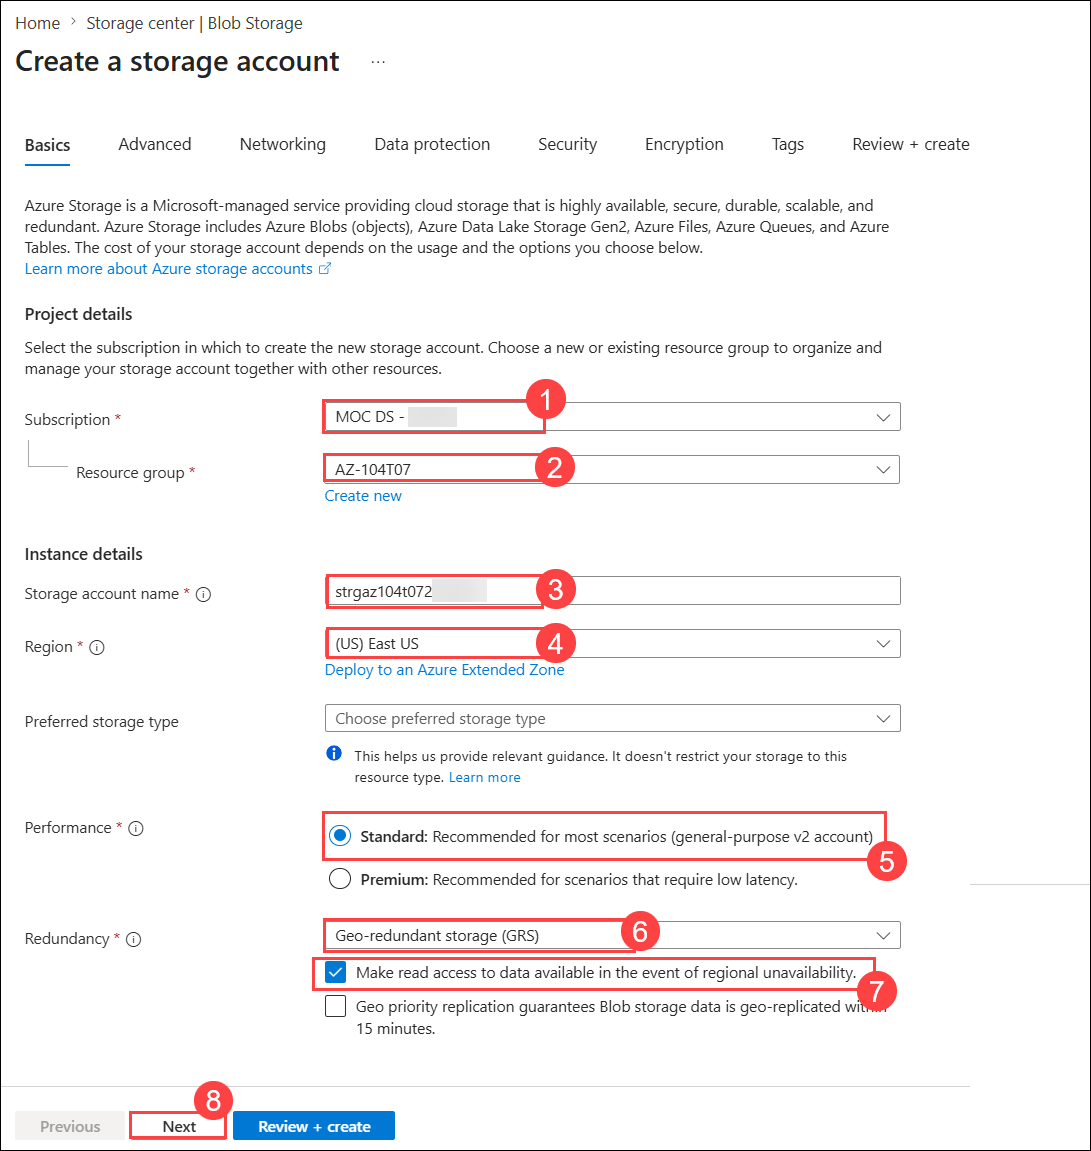
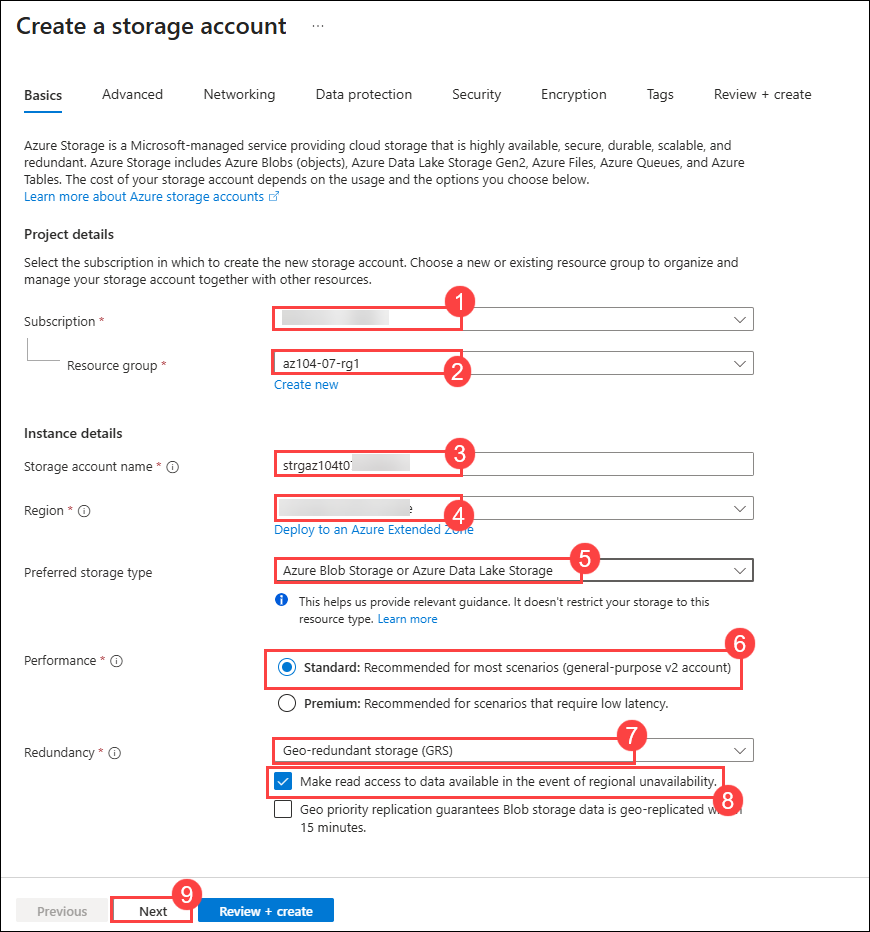
updated 07

diff --git a/Instructions/Labs/LAB_07-Manage_Azure_Storage.md b/Instructions/Labs/LAB_07-Manage_Azure_Storage.md
@@ -22,7 +22,7 @@ In this task, you will create and configure an Azure Storage account.
    
      ![image](./media/10-10-lab7-3.png)
 
-1. On the **Basics** tab of the **Create storage account** blade, specify the following settings (leave others with their default values) then click on **Next (8)**:
+1. On the **Basics** tab of the **Create storage account** blade, specify the following settings (leave others with their default values) then click on **Next (9)**:
 
     | Setting | Value |
     | --- | --- |
@@ -30,9 +30,10 @@ In this task, you will create and configure an Azure Storage account.
     | Resource group | Select **existing** resource group **az104-07-rg1 (2)** |
     | Storage account name | **strgaz104t07<inject key="DeploymentID" enableCopy="false" /> (3)** |
     | Region | **<inject key="Region" enableCopy="false"/> (4)**  |
-    | Performance | **Standard (5)** |
-    | Redundancy | **Geo-redundant storage (GRS) (6)** |
-    | Make read access to data available in the event of regional unavailability. | **Check the box (7)**|
+    | Preferred storage type | **Azure Blob Storage or Azure Data Lake Storage (5)** |
+    | Performance | **Standard (6)** |
+    | Redundancy | **Geo-redundant storage (GRS) (7)** |
+    | Make read access to data available in the event of regional unavailability. | **Check the box (8)**|
 
      ![image](./media/up10-10-lab7-4-new.png)
 
@@ -100,13 +101,12 @@ In this task, you will create and configure an Azure Storage account.
 
         ![image](../media/10-10-lab7-16.png)
       
-      > **Congratulations** on completing the task! Now, it's time to validate it. Here are the steps:
-      > - Hit the Validate button for the corresponding task. If you receive a success message, you can proceed to the next task. 
-      > - If not, carefully read the error message and retry the step, following the instructions in the lab guide.
-      > - If you need any assistance, please contact us at cloudlabs-support@spektrasystems.com
-. We are available 24/7 to help
+> **Congratulations** on completing the task! Now, it's time to validate it. Here are the steps:
+> - Hit the Validate button for the corresponding task. If you receive a success message, you can proceed to the next task. 
+> - If not, carefully read the error message and retry the step, following the instructions in the lab guide.
+> - If you need any assistance, please contact us at cloudlabs-support@spektrasystems.com. We are available 24/7 to help
       
-      <validation step="a2a7470f-6ebd-4f12-a4e5-2b80c67dda29" />
+  <validation step="a2a7470f-6ebd-4f12-a4e5-2b80c67dda29" />
 
 ### Task 2: Create and configure secure blob storage
 
@@ -249,17 +249,19 @@ In this task, you will create and configure Azure Files shares.
     | Setting | Value |
     | --- | --- |
     | Name | **az104-07-share (1)** |
-    | Tier | **transaction optimized (2)** |
+    | Tier | **Transaction optimized (2)** |
 
      ![image](./media/az104-24.png)    
 
-1. In the **Backup** tab, uncheck **Enable backup (1)**, then click **Review + create (2)** and select **Create** to finalize the file share setup.
+1. In the **Backup** tab, uncheck **Enable backup (1)**, then click **Review + create (2)**.
 
     | Setting | Value |
     | --- | --- |
     | Enable backup | **Uncheck (1)** |
 
      ![image](./media/10-10-lab7-32.png)
+
+1. Select **Create** to finalize the file share setup.
 
      ![image](./media/10-10-lab7-33.png)
 
@@ -373,7 +375,7 @@ In this task, you will create and configure Azure Files shares.
 
     >**Note:** You should receive a message *not authorized to perform this operation*. You are not connecting from the virtual network. It may take a couple of minutes for this to take effect.
 
-     ![image](../media/10-10-lab7-45.png)
+     ![image](./media/10-10-lab7-45.png)
 
 ### Review
 
